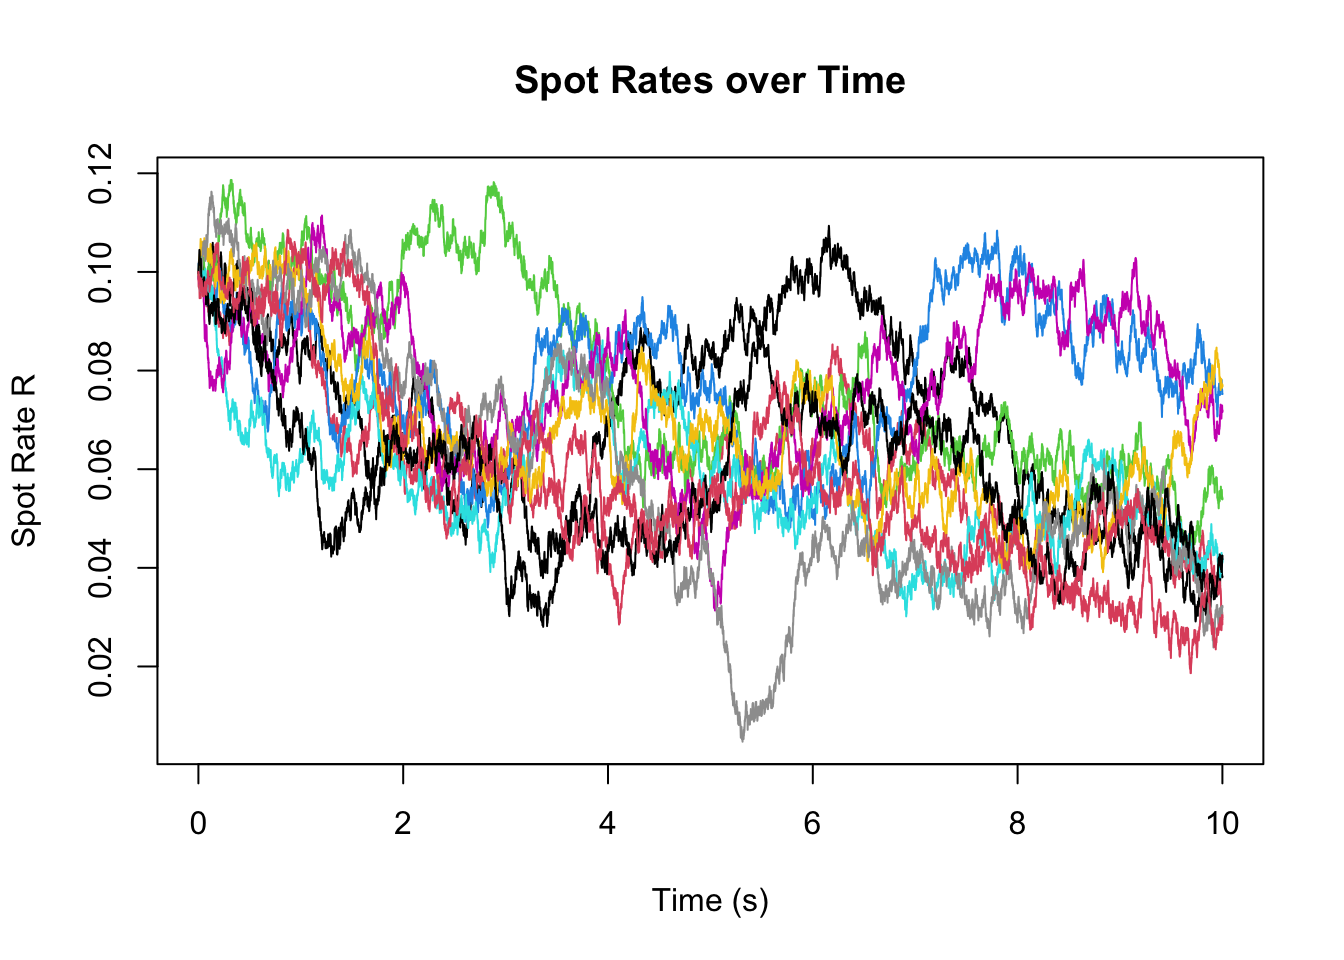
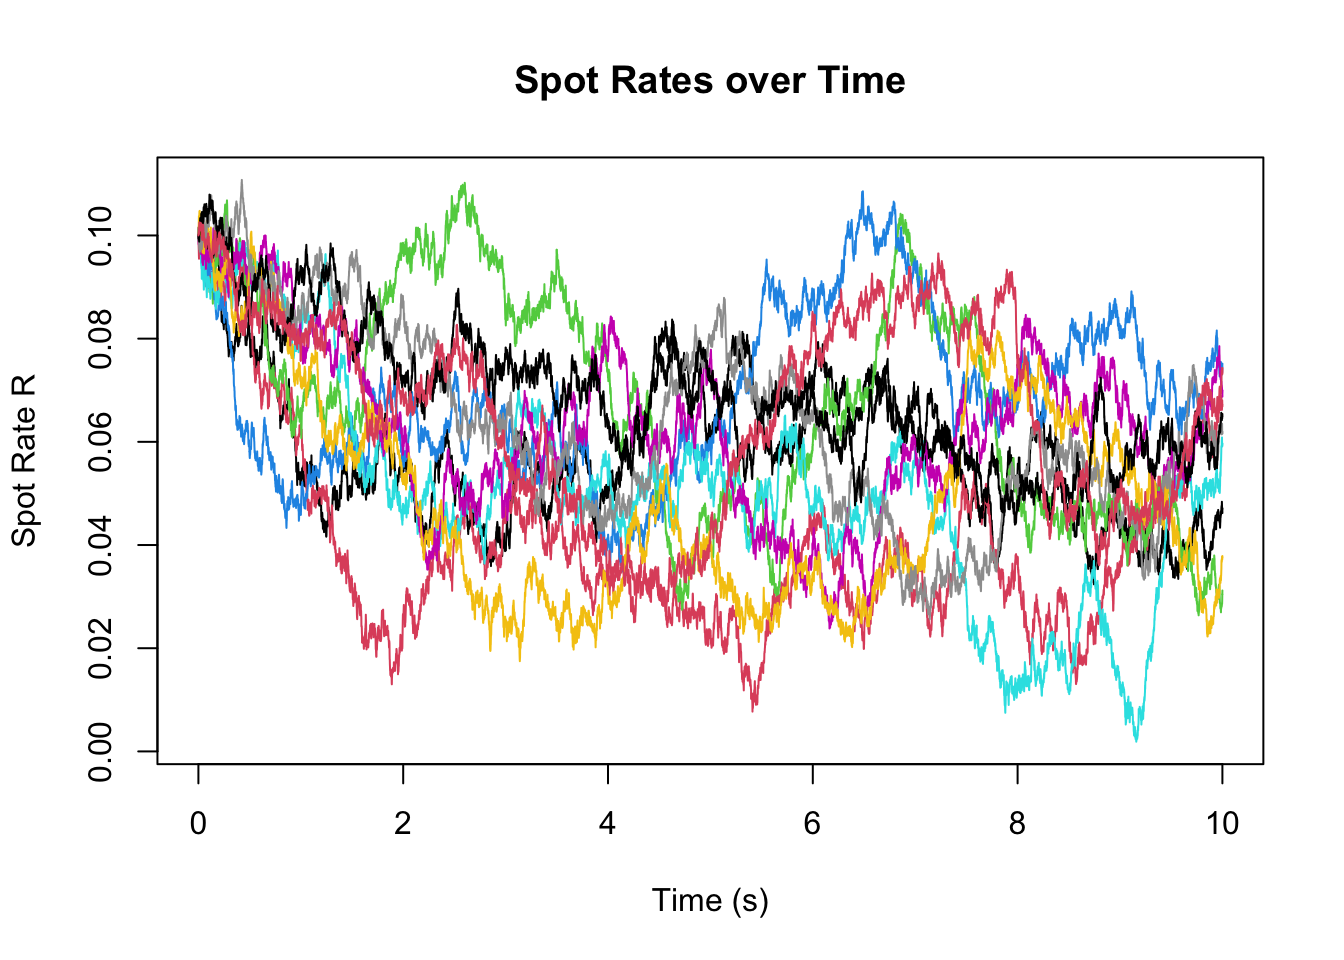
Updating plots to ggplots.

Changed region(s): [[0.125, 0.1875, 0.9375, 0.7812], [0.0625, 0.1562, 0.0938, 0.7188], [0.0625, 0.75, 0.0938, 0.8125]]

diff --git a/content/project/BS & Vasiciek/index.html b/content/project/BS & Vasiciek/index.html
@@ -47,7 +47,7 @@ header-includes:
 <p><br></p>
 <p>We plot the price over time of the ECO <img src="https://render.githubusercontent.com/render/math?math=P_t"> for <img src="https://render.githubusercontent.com/render/math?math=0\leq t\leq 10"> with <img src="https://render.githubusercontent.com/render/math?math=s_0=1">, <img src="https://render.githubusercontent.com/render/math?math=\sigma^2=0.02">, <img src="https://render.githubusercontent.com/render/math?math=\rho=0.03"> and <img src="https://render.githubusercontent.com/render/math?math=c=1">. This is shown below in Figure 1.</p>
 <p><br></p>
-<p><img src="{{< blogdown/postref >}}index_files/figure-html/FIGURE%201-1.png" width="672" style="display: block; margin: auto;" /></p>
+<p><img src="{{< blogdown/postref >}}index_files/figure-html/FIGURE%201-1.png" width="90%" style="display: block; margin: auto;" /></p>
 <p style="text-align: center;">
 Figure 1 - ECO price <img src="https://render.githubusercontent.com/render/math?math=P_t"> over time <img src="https://render.githubusercontent.com/render/math?math=t">.
 </p>
@@ -55,17 +55,17 @@ Figure 1 - ECO price <img src="https://render.githubusercontent.com/render/math?
 <p>We see that the price <img src="https://render.githubusercontent.com/render/math?math=P_t"> is increasing over time, which makes sense as the values of the ECO should be dependent on the time the underlying stock has to increase in value. From Equation 1 we can see that <img src="https://render.githubusercontent.com/render/math?math=P_t\rightarrow S_0"> as <img src="https://render.githubusercontent.com/render/math?math=t\rightarrow\infty">.</p>
 <p>We plot the price <img src="https://render.githubusercontent.com/render/math?math=P_{10}"> at time <img src="https://render.githubusercontent.com/render/math?math=t=10"> as we vary each of <img src="https://render.githubusercontent.com/render/math?math=\sigma">, <img src="https://render.githubusercontent.com/render/math?math=\rho"> and <img src="https://render.githubusercontent.com/render/math?math=c"> in turn - shown in Figure 2, Figure 3 and Figure 4 respectively.</p>
 <p><br></p>
-<p><img src="{{< blogdown/postref >}}index_files/figure-html/FIGURE%202-1.png" width="672" style="display: block; margin: auto;" /></p>
+<p><img src="{{< blogdown/postref >}}index_files/figure-html/FIGURE%202-1.png" width="90%" style="display: block; margin: auto;" /></p>
 <p style="text-align: center;">
 Figure 2 - ECO price <img src="https://render.githubusercontent.com/render/math?math=P_{10}"> at time <img src="https://render.githubusercontent.com/render/math?math=t=10"> for various volatility levels <img src="https://render.githubusercontent.com/render/math?math=\sigma">.
 </p>
 <p><br></p>
-<p><img src="{{< blogdown/postref >}}index_files/figure-html/FIGURE%203-1.png" width="672" style="display: block; margin: auto;" /></p>
+<p><img src="{{< blogdown/postref >}}index_files/figure-html/FIGURE%203-1.png" width="90%" style="display: block; margin: auto;" /></p>
 <p style="text-align: center;">
 Figure 3 - ECO price <img src="https://render.githubusercontent.com/render/math?math=P_{10}"> at time <img src="https://render.githubusercontent.com/render/math?math=t=10"> for various interest rates <img src="https://render.githubusercontent.com/render/math?math=\rho">.
 </p>
 <p><br></p>
-<p><img src="{{< blogdown/postref >}}index_files/figure-html/FIGURE%204-1.png" width="672" style="display: block; margin: auto;" /></p>
+<p><img src="{{< blogdown/postref >}}index_files/figure-html/FIGURE%204-1.png" width="90%" style="display: block; margin: auto;" /></p>
 <p style="text-align: center;">
 Figure 4 - ECO price <img src="https://render.githubusercontent.com/render/math?math=P_{10}"> at time <img src="https://render.githubusercontent.com/render/math?math=t=10"> for various strike prices <img src="https://render.githubusercontent.com/render/math?math=c">.
 </p>
@@ -116,7 +116,7 @@ plot(c3, P3, type=&quot;line&quot;, xlab=&quot;Strike Price (c)&quot;, ylab=&quo
 <p><br></p>
 <p>We simulate the OU process <img src="https://render.githubusercontent.com/render/math?math=\{R_s:0\leq s\leq 10\}"> for <img src="https://render.githubusercontent.com/render/math?math=R_0=0.1">, <img src="https://render.githubusercontent.com/render/math?math=\theta=0.5">, <img src="https://render.githubusercontent.com/render/math?math=\mu=0.05"> and <img src="https://render.githubusercontent.com/render/math?math=\sigma=0.02"> and produce a plot of our results. These are shown below in Figure 5.</p>
 <p><br></p>
-<p><img src="{{< blogdown/postref >}}index_files/figure-html/FIGURE%205-1.png" width="672" style="display: block; margin: auto;" /></p>
+<p><img src="{{< blogdown/postref >}}index_files/figure-html/FIGURE%205-1.png" width="90%" style="display: block; margin: auto;" /></p>
 <p style="text-align: center;">
 Figure 5 - Spot rate <img src="https://render.githubusercontent.com/render/math?math=\{R_s:0\leq s\leq 10\}"> over time <img src="https://render.githubusercontent.com/render/math?math=s">.
 </p>
@@ -132,4 +132,5 @@ Figure 5 - Spot rate <img src="https://render.githubusercontent.com/render/math?
 </p>
 <p><br></p>
 <p>We plot the mean <img src="https://render.githubusercontent.com/render/math?math=E[R_s]"> and variance <img src="https://render.githubusercontent.com/render/math?math=V[R_s]"> against time in Figures 6 and 7 below.</p>
+<p><img src="{{< blogdown/postref >}}index_files/figure-html/FIGURES%205%20AND%206-1.png" width="90%" style="display: block; margin: auto;" /></p>
 </div>
